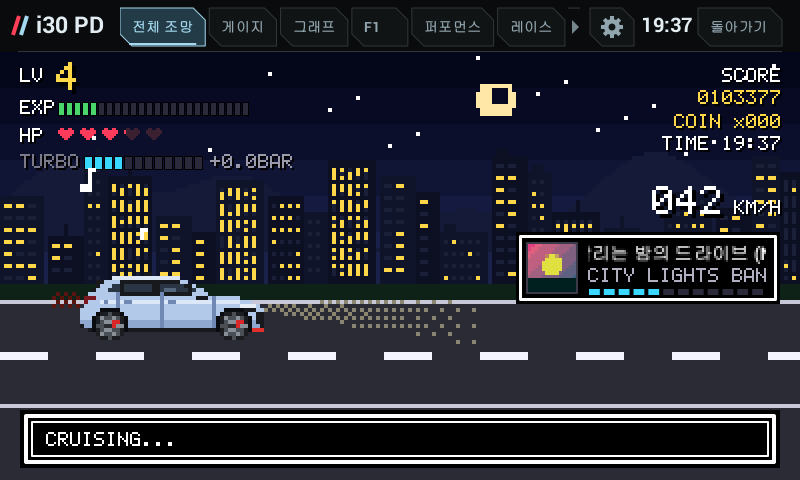
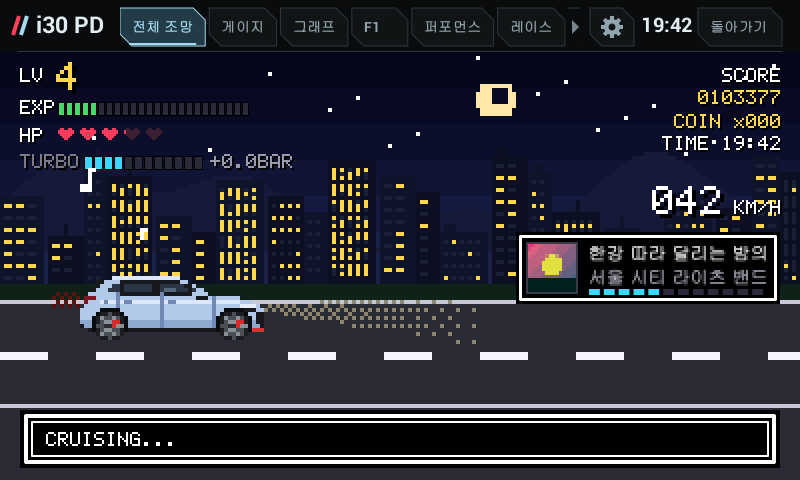
8비트 now playing: the artist scrolls too; a new track starts at its first letter and waits 1.5 s

Changed region(s): [[0.7188, 0.5, 0.9688, 0.5938], [0.9375, 0.2812, 1.0, 0.3125], [0.8125, 0.0312, 0.875, 0.0625]]

diff --git a/shared/src/com/veloster/vehicle/PixelCluster.java b/shared/src/com/veloster/vehicle/PixelCluster.java
@@ -241,9 +241,10 @@ final class PixelCluster extends ClusterKit {
     private boolean playing(){return music!=null&&music.playState==1&&music.title!=null&&music.title.length()>0;}
     // ---- now playing: a dialog box on the right, the cover shrunk to 14 x 14 pixels in a small palette ----------------
     private static final float NP_L=516,NP_T=232,NP_R=780,NP_B=304;
-    private Bitmap npArt,npArtFrom;
+    private Bitmap npArt,npArtFrom;private String npTrack="";private long npSince;
     private void nowPlaying(Canvas c){
         if(!playing())return;
+        String trk=music.title+"|"+music.artist;if(!trk.equals(npTrack)){npTrack=trk;npSince=now;}   // a new track starts at its first letter, 1.5 s still
         fill(c,NP_L,NP_T,NP_R,NP_B,0xff000000);outline(c,NP_L+3,NP_T+3,NP_R-3,NP_B-3,0,3,W);
         float tx=NP_L+16;
         if(artwork!=null){
@@ -252,17 +253,21 @@ final class PixelCluster extends ClusterKit {
         }
         float avail=NP_R-14-tx;
         // the title marquees when it does not fit, the artist sits still under it
-        Bitmap tb=label(music.title,W);float tw=tb.getWidth()*2;
+        Bitmap tb=label(music.title,W);
         c.save();c.clipRect(tx,NP_T+10,tx+avail,NP_T+34);
-        if(tw<=avail)blit(c,tb,0,0,tb.getWidth(),tb.getHeight(),tx,NP_T+12,tx+tw,NP_T+12+tb.getHeight()*2);
-        else{float gap=40,off=((now/30)*2)%(tw+gap);for(float x=tx-off;x<tx+avail;x+=tw+gap)blit(c,tb,0,0,tb.getWidth(),tb.getHeight(),x,NP_T+12,x+tw,NP_T+12+tb.getHeight()*2);}
+        marquee(c,tb,tx,NP_T+12,avail);
         c.restore();
         String ar=music.artist==null?"":music.artist;
-        if(ar.length()>0){Bitmap ab=label(ar,0xffb0b0c0);float aw=Math.min(avail,ab.getWidth()*2);c.save();c.clipRect(tx,NP_T+34,tx+avail,NP_T+54);
-            blit(c,ab,0,0,ab.getWidth(),ab.getHeight(),tx,NP_T+36,tx+ab.getWidth()*2,NP_T+36+ab.getHeight()*2);c.restore();}
+        if(ar.length()>0){Bitmap ab=label(ar,0xffb0b0c0);c.save();c.clipRect(tx,NP_T+34,tx+avail,NP_T+54);marquee(c,ab,tx,NP_T+36,avail);c.restore();}
         // progress as blocks, like the EXP bar
         if(music.durationMs>0&&music.positionMs>=0){int n=12,lit=Math.round(clamp(music.positionMs/(float)music.durationMs,0,1)*n);float bw=(avail)/n;
             for(int i=0;i<n;i++){fill(c,tx+i*bw,NP_T+56,tx+(i+1)*bw-2,NP_T+64,0xff000000);fill(c,tx+i*bw+1,NP_T+57,tx+(i+1)*bw-3,NP_T+63,i<lit?0xff3ad8ff:0xff2a2a3a);}}
+    }
+    /** A label at 2 x, still when it fits, else (after 1.5 s at its start) scrolling left in whole pixels, a gap before it comes round. */
+    private void marquee(Canvas c,Bitmap b,float x,float y,float avail){
+        float w=b.getWidth()*2,h=b.getHeight()*2;
+        if(w<=avail){blit(c,b,0,0,b.getWidth(),b.getHeight(),x,y,x+w,y+h);return;}
+        float gap=40,off=((Math.max(0,now-npSince-1500)/30)*2)%(w+gap);for(float xx=x-off;xx<x+avail;xx+=w+gap)blit(c,b,0,0,b.getWidth(),b.getHeight(),xx,y,xx+w,y+h);
     }
     /** The cover at 14 x 14 with 3 bits a channel: drawn back at 4 x 4 per pixel it reads as game art. */
     private static Bitmap pixelArt(Bitmap src){

diff --git a/i30pd_port/app/preview/TabsPreview.java b/i30pd_port/app/preview/TabsPreview.java
@@ -108,16 +108,17 @@ public final class TabsPreview {
             BufferedImage art=new BufferedImage(64,64,BufferedImage.TYPE_INT_ARGB);java.awt.Graphics2D ag=art.createGraphics();
             ag.setPaint(new java.awt.GradientPaint(0,0,new java.awt.Color(0xff5f8a),64,64,new java.awt.Color(0x3a6ea5)));ag.fillRect(0,0,64,64);
             ag.setColor(new java.awt.Color(0xffe04a));ag.fillOval(18,14,28,28);ag.setColor(new java.awt.Color(0x1d2025));ag.fillRect(0,46,64,18);ag.dispose();
-            for(int pass=0;pass<2;pass++){
+            for(int pass=0;pass<3;pass++){
                 MediaState m8=new MediaState();m8.mode(0x36);
-                if(pass==0)m8.update(1,true,"한강 따라 달리는 밤의 드라이브 (Night Drive Remix)",true,"City Lights Band",true,83000,true,214000,false,now);
+                if(pass!=1)m8.update(1,true,"한강 따라 달리는 밤의 드라이브 (Night Drive Remix)",true,"서울 시티 라이츠 밴드 & 한강 오케스트라",true,83000,true,214000,false,now);
                 else m8.update(1,true,"Midnight Run",true,"Neon Riders",true,150000,true,200000,false,now);
                 m8.playback(1,1);
-                ClusterKit.artwork=pass==0?android.graphics.Bitmap.of(art):null;
+                ClusterKit.artwork=pass!=1?android.graphics.Bitmap.of(art):null;
                 BufferedImage img=new BufferedImage(800,480,BufferedImage.TYPE_INT_RGB);android.graphics.Canvas c=new android.graphics.Canvas(img.createGraphics());
                 new PitRenderer().draw(c,800,480,false,model,now,0,false,null);
-                new PixelCluster(false).frame(c,model.snapshot(now),model,new DriveStats(),VehicleProfile.PETROL_DCT,now,m8.snapshot(now));
-                ImageIO.write(img,"png",new File(out,pass==0?"9g_cluster_8bit_music.png":"9g_cluster_8bit_music_en.png"));}
+                PixelCluster pk=new PixelCluster(false);pk.frame(c,model.snapshot(now),model,new DriveStats(),VehicleProfile.PETROL_DCT,now,m8.snapshot(now));
+                if(pass==2)pk.frame(c,model.snapshot(now),model,new DriveStats(),VehicleProfile.PETROL_DCT,now+4500,m8.snapshot(now));
+                ImageIO.write(img,"png",new File(out,pass==0?"9g_cluster_8bit_music.png":pass==1?"9g_cluster_8bit_music_en.png":"9g_cluster_8bit_music_scroll.png"));}
             ClusterKit.artwork=null;
         }
         taxi(out,"9d_cluster_taxi_receipt",model,now,ms.snapshot(now),true);

diff --git a/i30pd_port/app/TABS.md b/i30pd_port/app/TABS.md
@@ -220,15 +220,15 @@ PD에서 새로 고를 수 있는 항목(순간 연료소모 · 평균 연비 ·
 
 ![](screens/9_cluster_list.png)
 
-8비트(옆 화면)는 노래가 재생 중이면 오른쪽에 곡 상자가 뜬다(2026-11-10, beta): 앨범 아트를 14×14 도트·적은 색으로 줄여 4배로, 제목(길면 옆으로 흐름)·가수, 재생 위치 블록 12칸. 영문은 화면의 도트 글꼴, 한글 등은 시스템 글꼴을 작게(부드럽게 하지 않고) 그려 2배로 키운다. 곡 상자가 있는 동안 위쪽 곡 바뀜 알림 막대는 안 뜬다. 아케이드(뒤 화면)는 그대로.
+8비트(옆 화면)는 노래가 재생 중이면 오른쪽에 곡 상자가 뜬다(2026-11-10, beta): 앨범 아트를 14×14 도트·적은 색으로 줄여 4배로, 제목·가수(길면 곡이 바뀐 뒤 1.5초 멈췄다가 옆으로 흐름), 재생 위치 블록 12칸. 영문은 화면의 도트 글꼴, 한글 등은 시스템 글꼴을 작게(부드럽게 하지 않고) 그려 2배로 키운다. 곡 상자가 있는 동안 위쪽 곡 바뀜 알림 막대는 안 뜬다. 아케이드(뒤 화면)는 그대로.
 
 | 택시 미터기 | 80년대 디지털 | 전투기 HUD |
 |---|---|---|
 | ![](screens/9d_cluster_taxi.png) | ![](screens/9e_cluster_80s.png) | ![](screens/9f_cluster_hud.png) |
 | **8비트 게임** | **8비트 아케이드** | |
 | ![](screens/9g_cluster_8bit.png) | ![](screens/9g_cluster_8bit_chase.png) | |
-| **8비트 · 재생 중** | **8비트 · 재생 중(영문)** | |
-| ![](screens/9g_cluster_8bit_music.png) | ![](screens/9g_cluster_8bit_music_en.png) | |
+| **8비트 · 재생 중** | **8비트 · 흐른 뒤** | **8비트 · 영문** |
+| ![](screens/9g_cluster_8bit_music.png) | ![](screens/9g_cluster_8bit_music_scroll.png) | ![](screens/9g_cluster_8bit_music_en.png) |
 | **8비트 · 밤** | **아케이드 · 밤** | **마찰원** |
 | ![](screens/9g_cluster_8bit_night.png) | ![](screens/9g_cluster_8bit_chase_night.png) | ![](screens/9i_cluster_gcircle.png) |
 | **야간 미니멀** | **드래그 출발 트리** | **비행기 엔진 계기판** |
